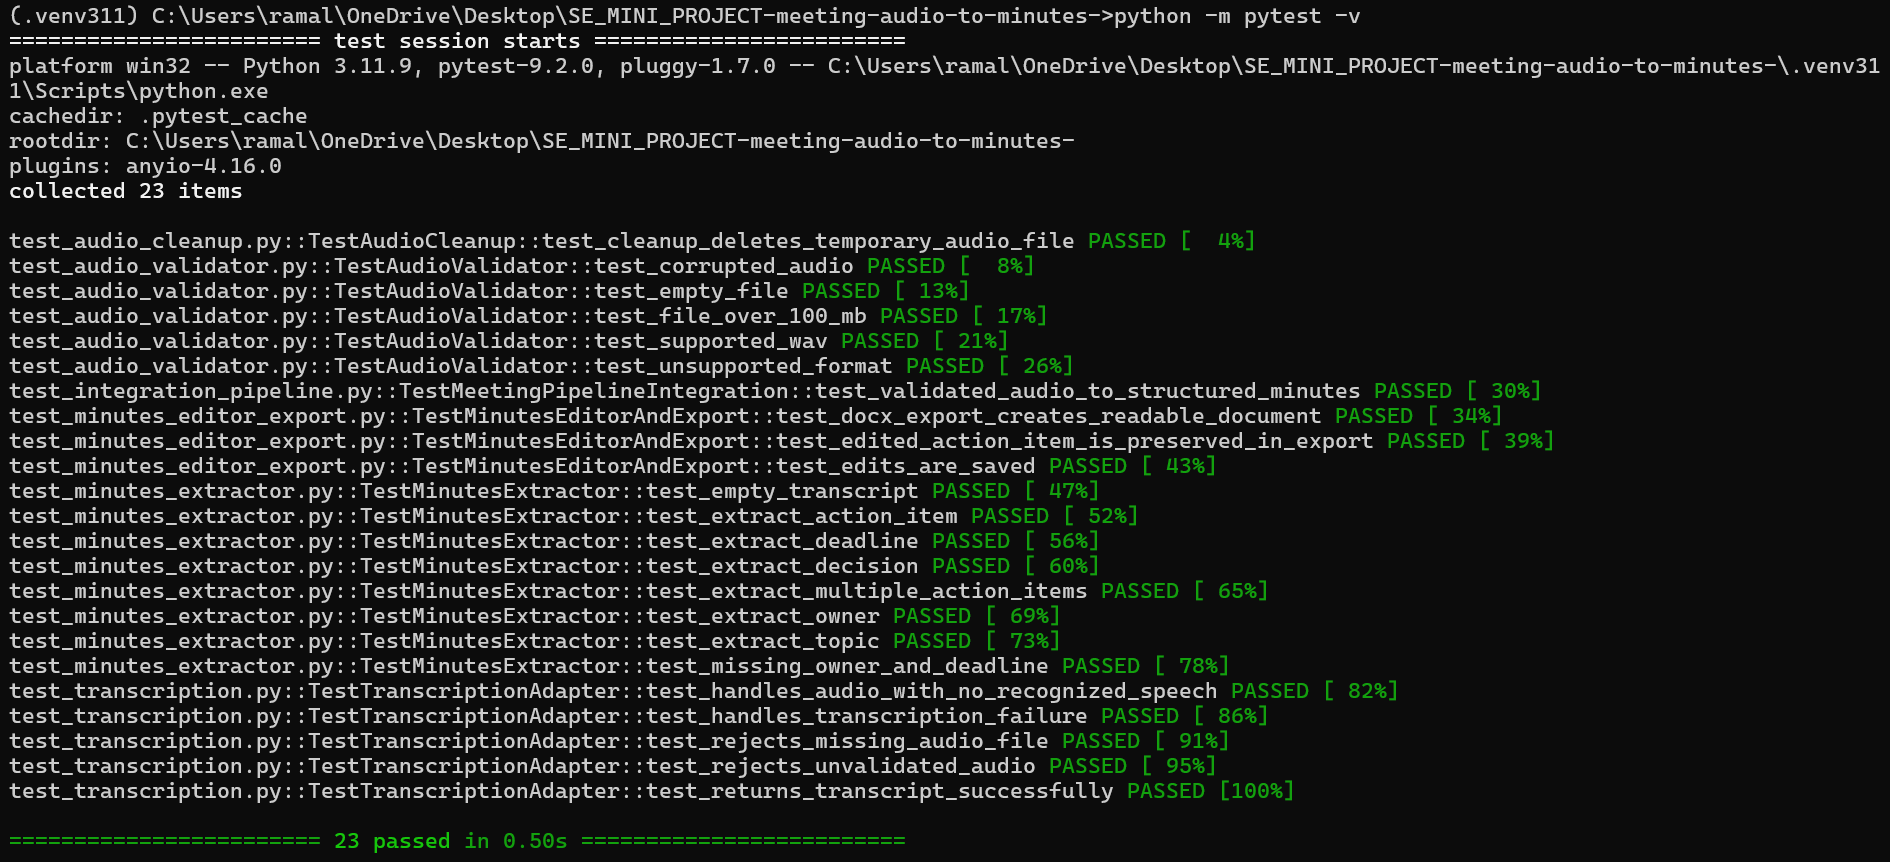
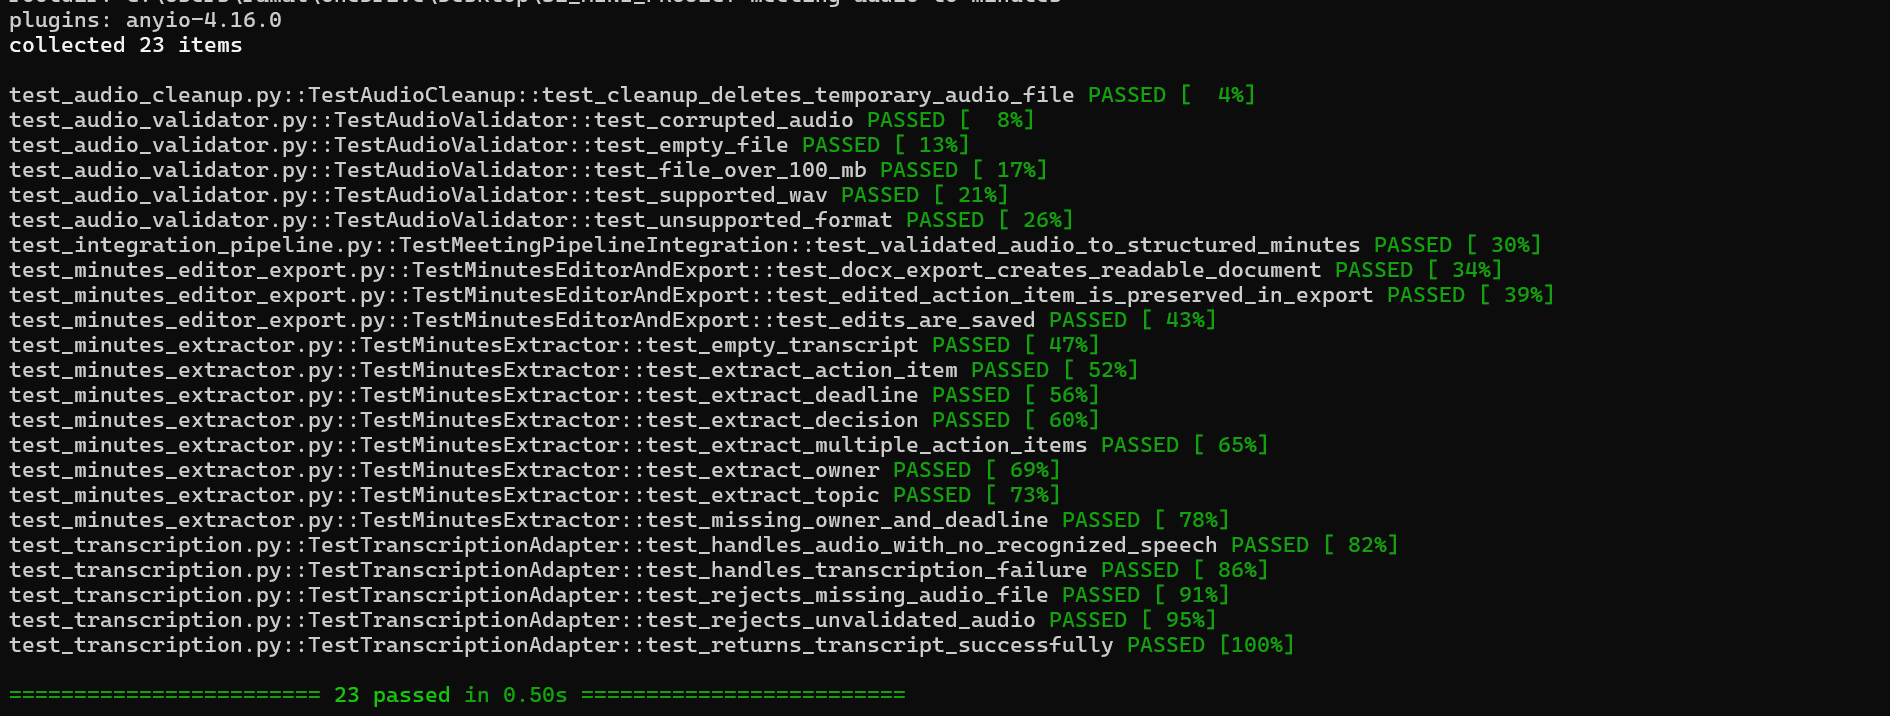
Document final QA verification and update test evidence

Changed region(s): [[0.0, 0.0, 0.9989, 0.9218], [0.0, 0.9525, 0.4683, 0.9832]]

diff --git a/TEST_EXECUTION_REPORT.md b/TEST_EXECUTION_REPORT.md
@@ -558,3 +558,69 @@ These results demonstrate successful execution of the recorded tests and workflo
 
 
 
+
+---
+
+## Final Independent QA Verification — 16 November 2026
+
+### 1. Test Environment
+- Operating system: Windows 11
+- Processor: Intel Core i5-1334U
+- RAM: 7.69 GB
+- Python: 3.11.9
+- Browser: Google Chrome 157
+- Application: Streamlit 1.66.1
+- Transcription: Faster-Whisper base model, CPU
+
+### 2. Automated Testing
+- Command: .\.venv311\Scripts\python.exe -m pytest -q --tb=short
+- Result: 56 passed, 0 failed
+- Final recorded execution time: 3.64 seconds
+- Status: PASS
+- Evidence: evidence/10_final_56_tests.png
+
+### 3. Code Coverage
+- Application-code combined statement and branch coverage: 81%
+- Coverage including test files: 88%
+- Status: RECORDED
+- Note: Coverage is not equivalent to full functional or security assurance.
+
+### 4. Performance Verification
+- Test input: 600-second synthetic WAV audio
+- File size: approximately 25.23 MB
+- Processing time: 471.11 seconds (7 minutes 51 seconds)
+- Target: complete within 30 minutes
+- Result: PASS
+- Limitation: Synthetic repeated speech; natural meeting audio performance was not established by this test.
+
+### 5. Security and Input Validation
+- Empty audio upload: PASS — rejected with an empty-file message.
+- Corrupted WAV upload: PASS — rejected as invalid or corrupted.
+- Valid WAV larger than 100 MB: PASS — rejected by the uploader.
+- TXT selection through browser file picker: PASS — unsupported selection blocked.
+- Session isolation: PASS — tested between normal Chrome and Incognito sessions.
+- Basic tracked-source secrets scan: PASS — no obvious credentials identified.
+- Terminal output inspection: No transcript or credentials observed in inspected output.
+- HTTPS verification: Not applicable to the tested local-only setup; external deployment not assessed.
+
+Limitations: Browser-side restrictions do not establish resistance to direct backend bypass. Security checks were targeted manual checks, not a comprehensive penetration test or full repository-history audit.
+
+### 6. Compatibility and End-to-End Verification
+- Windows 11 and Chrome 157: PASS for the tested configuration.
+- Sample WAV upload and validation: PASS.
+- Audio transcription: PASS.
+- Structured minutes extraction: PASS.
+- Minutes editing and saving: PASS.
+- DOCX export and opening in Word: PASS.
+
+### 7. Evidence and Privacy Review
+- New automated-test evidence: evidence/10_final_56_tests.png
+- Existing screenshots 01 and 02 contain local username/path information and require redaction before public sharing.
+- Other existing screenshots were visually reviewed; no obvious secrets were identified.
+- Screenshot review does not establish that image metadata is free of sensitive information.
+
+### 8. Final Assessment
+The 56 automated tests passed in the tested Python 3.11 environment. The measured synthetic-audio performance test met the 30-minute target. Targeted security, input-validation, session-isolation and end-to-end checks produced the results recorded above.
+
+Outstanding items include redaction of older evidence screenshots, verification of current GitHub Actions status, and integration review of the final pull request.
+
